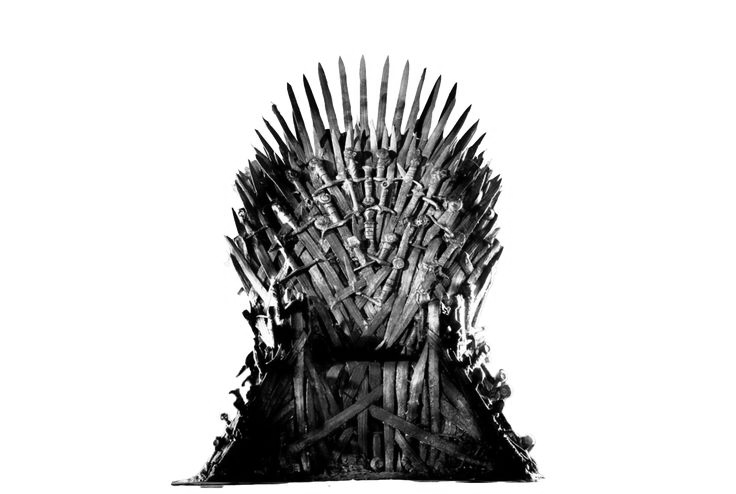
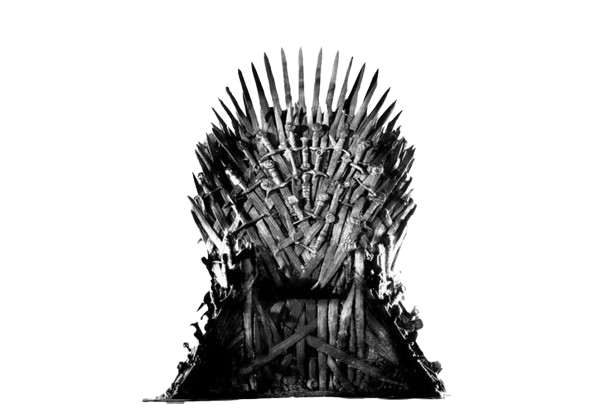
donno

diff --git a/css/main_page.css b/css/main_page.css
@@ -3,25 +3,6 @@ body {
   margin: 0;
 }
 
-#top_header {
-  height: 2000px;
-  margin: 0;
-  overflow-y: scroll;
-  position: relative;
-}
-
-#main_title {
-  text-align: center;
-  width: 100%;
-  font-size: 90px;
-  font-family: "Trajan Pro";
-  color: white;
-  opacity: 0;
-  position: fixed;
-  top: 50%;
-  left: 50%;
-  transform: translate(-50%, -50%);
-}
 
 .main_menu {
   height: 100vh;
@@ -39,31 +20,30 @@ body {
     "c c e e l l w w";
 }
 
+.blur_container {
+  position: absolute;
+  top: 0;
+  bottom: 0;
+  left: 0;
+  right: 0;
+  filter: blur(5px);
+  z-index: 0;
+  transition: filter 0.3s ease;
+}
+
+
 .menu_slice {
   position: relative;
   overflow: hidden;
-
+  
   text-decoration: none;
+  /* z-index: 1; */
 }
 
-.menu_slice:hover::before {
-  backdrop-filter: blur(10px);
-  content: "";
-  position: absolute;
-  top: 0;
-  left: 0;
-  right: 0;
-  bottom: 0;
-  filter: blur(4px);
-  z-index: 0;
-  transition: all 2s ease;
+.menu_slice:hover .blur_container {
+  filter: blur(0px);
 }
 
-
-.menu_slice:hover .slice_title {
-  opacity: 1;
-  z-index: 1;
-}
 
 .slice_title {
   font-size: 60px;
@@ -71,52 +51,46 @@ body {
   justify-content: center;
   align-items: center;
   color: white;
-  opacity: 0;
-  transition: all 0.5s ease;
+
   z-index: 2;
   filter: none;
-
   
-
-
   position: relative;
 }
 
 #characters {
-  background-image: url(../img/characters_cinematic-cropped.jpg);
-  background-size: cover;
   grid-area: c;
 }
-#characters:hover::before {
+#characters .blur_container {
   background-image: url(../img/characters_cinematic-cropped.jpg);
   background-size: cover;
 }
-
 
 
 #episodes {
-  background-image: url(../img/test.jpg);
-  background-size: cover;
   grid-area: e;
 }
-#episodes:hover::before {
-  background-image: url(../img/test.jpg);
+#episodes .blur_container {
+  background-image: url(../img/episodes.jpg);
   background-size: cover;
 }
 
 
 #locations {
-  background-color: blueviolet;
   grid-area: l;
 }
+#locations .blur_container {
+  background-image: url(../img/map.jpg);
+  background-size: cover;
+}
+
 
 #what {
   background-color: aqua;
   grid-area: w;
 }
 
-
 #more {
   height: 70vh;
-  background-color:blanchedalmond;
+  background-color: blanchedalmond;
 }

diff --git a/index.html b/index.html
@@ -6,28 +6,36 @@
     <title>Document</title>
     <link rel="stylesheet" href="css/style.css" />
     <link rel="stylesheet" href="css/main_page.css" />
+    <link rel="stylesheet" href="css/main_page_intro.css">
   </head>
   <body>
     <div id="top_header">
       <h1 id="main_title">GAME OF THRONES</h1>
+      <h5 id="small_text">En presentasjon av</h3>
+      <script src="scripts/scroll.js"></script>
+      <img id="throne" src="img/throne.png" alt="">
     </div>
-    <div class="main_menu">
 
+
+    <div class="main_menu">
       <a href="html/characters.html" id="characters" class="menu_slice">
+        
         <h3 class="slice_title">Characters</h3>
+        <div class="blur_container"></div>
       </a>
       <a href="html/episodes.html" id="episodes" class="menu_slice">
         <h3 class="slice_title">Episodes</h3>
+        <div class="blur_container"></div>
       </a>
       <a href="html/locations.html" id="locations" class="menu_slice">
         <h3 class="slice_title">Locations</h3>
+        <div class="blur_container"></div>
       </a>
       <a href="html/none.html" id="what" class="menu_slice">
         <h3 class="slice_title">????????</h3>
+        <div class="blur_container"></div>
       </a>
     </div>
-    <div id="more">
-      ....
-    </div>
+    <div id="more">....</div>
   </body>
 </html>

diff --git a/scripts/scroll.js b/scripts/scroll.js
@@ -1,0 +1,28 @@
+const scrollThreshold = 1700;
+
+const throneImage = document.getElementById("throne");
+const bottomDiv = document.querySelector("main_menu");
+// check this if fail
+
+window.addEventListener("scroll", function () {
+  const textElement = document.getElementById("main_title");
+  const textElement2 = document.getElementById("small_text");
+  const scrollTop = window.scrollY;
+  const opacity = 1 - Math.min(scrollTop / scrollThreshold, 1);
+  textElement.style.opacity = opacity;
+  textElement2.style.opacity = opacity;
+
+  const bottomDivRect = bottomDiv.getBoundingClientRect();
+  const bottomDivBottom = bottomDivRect.bottom;
+
+  // Check if the bottom of the bottom div is visible in the viewport
+  if (bottomDivBottom <= window.innerHeight) {
+    // If we're at the bottom of the div, set the image to be static in the div
+    throneImage.style.position = "absolute";
+    throneImage.style.bottom = "0"; // Align to the bottom of the div
+  } else {
+    // If we're above the bottom of the div, keep it fixed at the bottom of the screen
+    throneImage.style.position = "fixed";
+    throneImage.style.bottom = "0"; // Keep it fixed at the bottom of the viewport
+  }
+});

diff --git a/css/main_page_intro.css b/css/main_page_intro.css
@@ -1,0 +1,37 @@
+#top_header {
+  height: 2000px;
+  margin: 0;
+  overflow-y: scroll;
+  position: relative;
+}
+
+#main_title {
+  text-align: center;
+  width: 100%;
+  font-size: 90px;
+  font-family: "Trajan Pro";
+  color: white;
+  /* opacity: 0; */
+  position: fixed;
+  z-index: -2;
+
+  opacity: 1;
+  /* transition: opacity 0.5s ease; */
+  /* transform: translate(-50%, -50%); */
+}
+
+#small_text {
+    font-family: "Trajan Pro";
+
+  color: white;
+  position: fixed;
+  /* top: 20%; */
+  text-align: center;
+  width: 100%;
+}
+
+#throne {
+  position: fixed;
+  bottom: 0;
+  left: 30%;
+}
